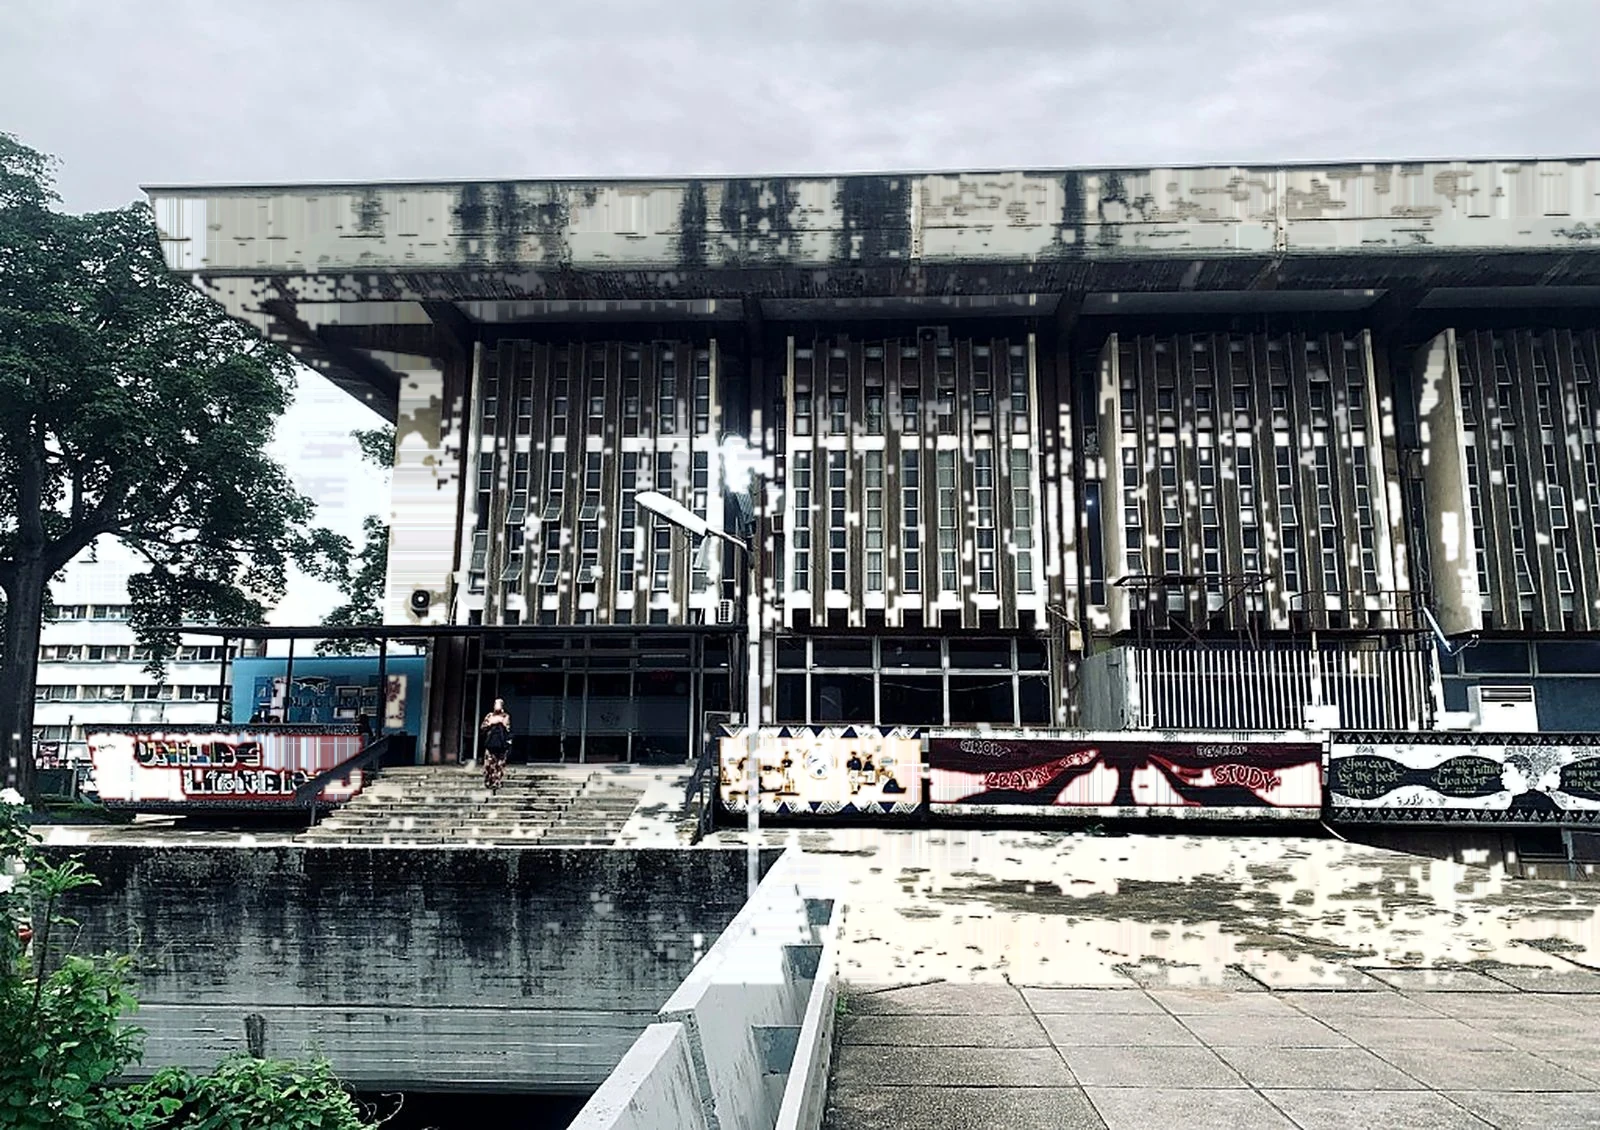
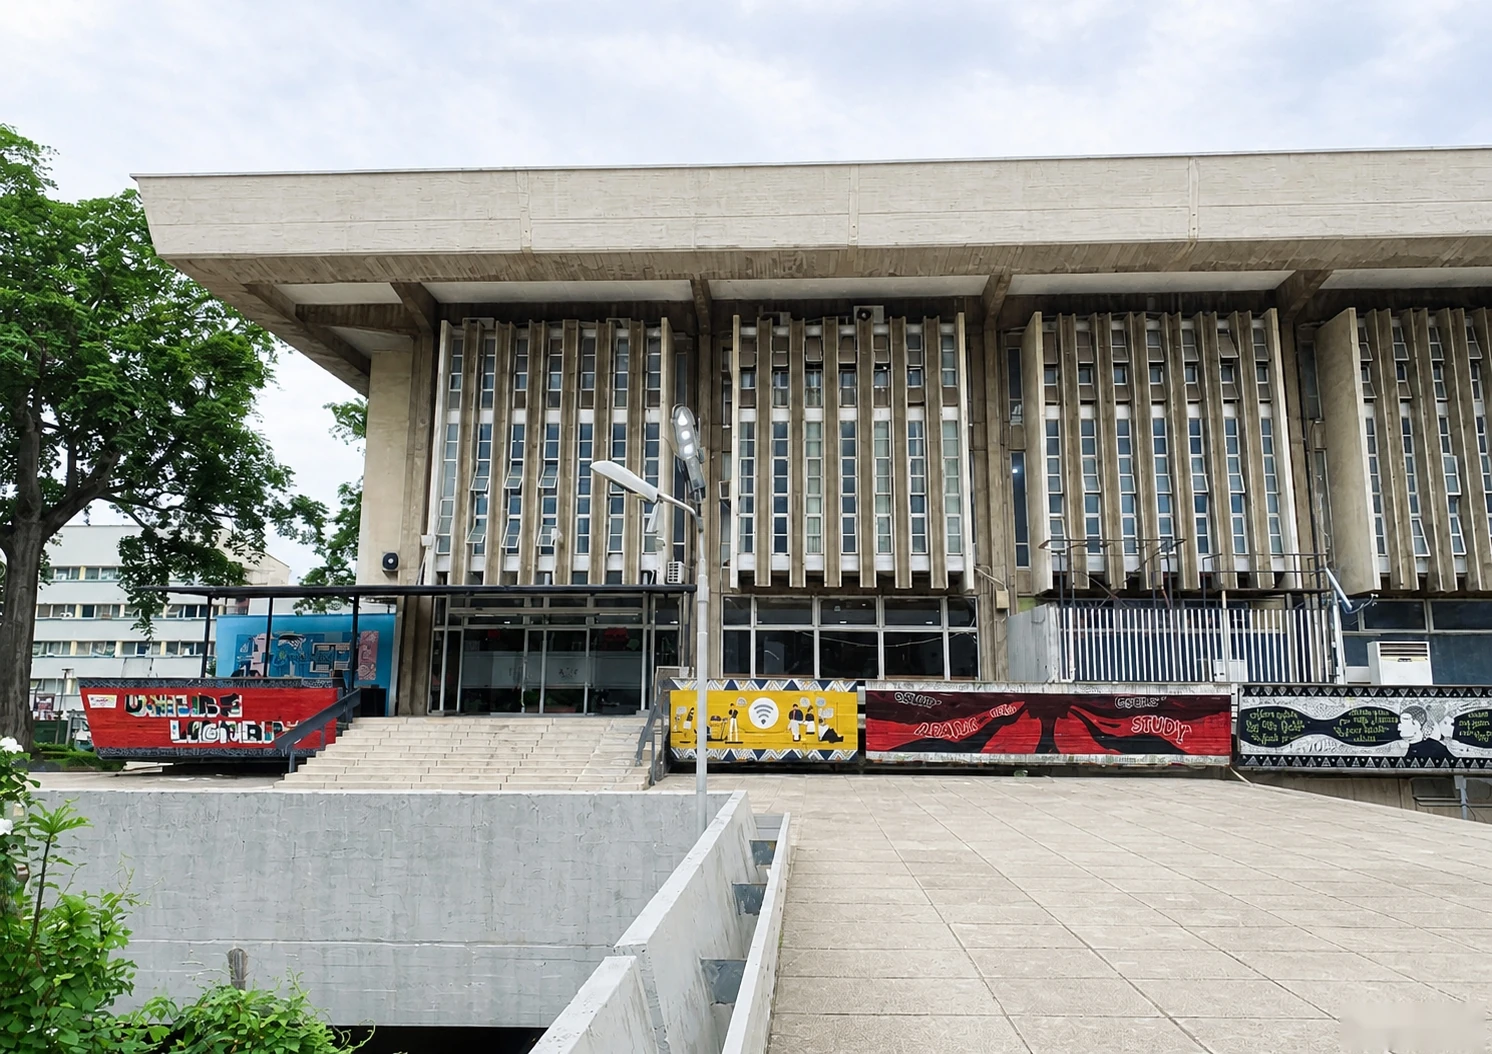
Replace library building and campus photos with clean images, remove Genspark watermarks, and deploy new CDN assets

diff --git a/index.html b/index.html
@@ -115,8 +115,8 @@
     <section class="hero--bg">
       <div class="hero-bg" aria-hidden="true">
         <picture>
-          <source srcset="https://iili.io/npBxdcN.webp" type="image/webp">
-          <img src="assets/library_facade_enhanced.jpg?v=20261111_clean"
+          <source srcset="https://iili.io/o9LWL6F.webp" type="image/webp">
+          <img src="assets/library_facade_enhanced.jpg?v=20261114_cleanpics"
             alt="University of Lagos Main Library Building">
         </picture>
       </div>
@@ -365,7 +365,7 @@
             <div class="arch">
               <picture>
                 <source srcset="https://iili.io/nPRQeA7.webp" type="image/webp">
-                <img src="assets/learning_commons_workstations.jpg?v=20261111_clean"
+                <img src="assets/learning_commons_workstations.jpg?v=20261114_cleanpics"
                   alt="Students conducting research at the UNILAG Library Learning Commons workstations"
                   style="object-position:center 30%">
               </picture>
@@ -382,7 +382,7 @@
             <div class="arch">
               <picture>
                 <source srcset="https://iili.io/nPRZAb9.webp" type="image/webp">
-                <img src="assets/makerspace_arena.jpg?v=20261111_clean"
+                <img src="assets/makerspace_arena.jpg?v=20261114_cleanpics"
                   alt="UNILAG Library Makerspace circular collaboration arena and ideation lounge">
               </picture>
             </div>
@@ -397,7 +397,7 @@
             <div class="arch">
               <picture>
                 <source srcset="https://iili.io/nPRQbVa.webp" type="image/webp">
-                <img src="assets/learning_commons_desk.jpg?v=20261111_clean"
+                <img src="assets/learning_commons_desk.jpg?v=20261114_cleanpics"
                   alt="UNILAG Library Learning Commons Information Desk and motivational wall murals">
               </picture>
             </div>
@@ -412,7 +412,7 @@
             <div class="arch">
               <picture>
                 <source srcset="https://iili.io/nPRtd1j.webp" type="image/webp">
-                <img src="assets/makerspace_wall.jpg?v=20261111_clean"
+                <img src="assets/makerspace_wall.jpg?v=20261114_cleanpics"
                   alt="UNILAG Library Makerspace Make Ideas Happen wall and interactive digital screen">
               </picture>
             </div>
@@ -737,7 +737,10 @@
         <div class="split split--rev">
           <div class="split-media" data-reveal>
             <div class="arch">
-              <img src="assets/campus-1.jpg" alt="University of Lagos campus grounds">
+              <picture>
+                <source srcset="https://iili.io/o9LXcwQ.webp" type="image/webp">
+                <img src="assets/campus-1.jpg?v=20261114_cleanpics" alt="University of Lagos campus grounds">
+              </picture>
               <span class="tick tl"></span><span class="tick tr"></span><span class="tick bl"></span><span
                 class="tick br"></span>
             </div>

diff --git a/libraries.html b/libraries.html
@@ -131,8 +131,8 @@
           <div data-reveal>
             <div class="arch" style="aspect-ratio:4/5">
               <picture>
-                <source srcset="https://iili.io/npBxvlp.webp" type="image/webp">
-                <img src="assets/main_library_frontal.jpg?v=20261111_clean"
+                <source srcset="https://iili.io/o9LXJnI.webp" type="image/webp">
+                <img src="assets/main_library_frontal.jpg?v=20261114_cleanpics"
                   alt="University of Lagos Main Library building and entrance plaza, Akoka" loading="lazy"
                   style="object-position:center 30%">
               </picture>
@@ -211,7 +211,7 @@
             <div class="arch arch--flat">
               <picture>
                 <source srcset="https://iili.io/nPRs3Ne.webp" type="image/webp">
-                <img src="assets/reading_booth_study.jpg?v=20261111_clean"
+                <img src="assets/reading_booth_study.jpg?v=20261114_cleanpics"
                   alt="Readers actively studying inside the individual pod seats at UNILAG Main Library"
                   style="object-position:center 25%">
               </picture>
@@ -275,7 +275,7 @@
             <div class="arch" style="aspect-ratio:16/11">
               <picture>
                 <source srcset="https://iili.io/nPRQbVa.webp" type="image/webp">
-                <img src="assets/learning_commons_desk.jpg?v=20261111_clean"
+                <img src="assets/learning_commons_desk.jpg?v=20261114_cleanpics"
                   alt="UNILAG Library Learning Commons Information Desk and motivational feature wall">
               </picture>
             </div>
@@ -302,7 +302,7 @@
             <div class="arch" style="aspect-ratio:16/11">
               <picture>
                 <source srcset="https://iili.io/nPRtd1j.webp" type="image/webp">
-                <img src="assets/makerspace_wall.jpg?v=20261111_clean"
+                <img src="assets/makerspace_wall.jpg?v=20261114_cleanpics"
                   alt="UNILAG Library Makerspace Make Ideas Happen wall and interactive digital screen">
               </picture>
             </div>

diff --git a/about.html b/about.html
@@ -156,8 +156,8 @@
           <div data-reveal>
             <div class="arch">
               <picture>
-                <source srcset="https://iili.io/npBzuqv.webp" type="image/webp">
-                <img src="assets/main_library_entrance.jpg?v=20261111_clean" alt="University of Lagos Main Library entrance, Akoka">
+                <source srcset="https://iili.io/o9LXCu4.webp" type="image/webp">
+                <img src="assets/main_library_entrance.jpg?v=20261114_cleanpics" alt="University of Lagos Main Library entrance, Akoka">
               </picture>
               <span class="tick tl"></span><span class="tick tr"></span><span class="tick bl"></span><span
                 class="tick br"></span>
@@ -233,8 +233,8 @@
           <a href="departments.html" class="arch-card" data-reveal>
             <div class="arch" style="aspect-ratio:16/10">
               <picture>
-                <source srcset="https://iili.io/npBzkhu.webp" type="image/webp">
-                <img src="assets/building-1.jpg?v=20261111_clean" alt="Library building exterior and plaza">
+                <source srcset="https://iili.io/o9LXznS.webp" type="image/webp">
+                <img src="assets/building-1.jpg?v=20261114_cleanpics" alt="Library building exterior and plaza">
               </picture>
             </div>
             <div class="ac-body">
@@ -248,7 +248,7 @@
             <div class="arch" style="aspect-ratio:16/10">
               <picture>
                 <source srcset="https://iili.io/nPRQbVa.webp" type="image/webp">
-                <img src="assets/learning_commons_desk.jpg?v=20261111_clean" alt="UNILAG Library Learning Commons Information Desk and motivational wall murals">
+                <img src="assets/learning_commons_desk.jpg?v=20261114_cleanpics" alt="UNILAG Library Learning Commons Information Desk and motivational wall murals">
               </picture>
             </div>
             <div class="ac-body">

diff --git a/admin/index.html b/admin/index.html
@@ -728,7 +728,7 @@
             <button type="button" class="btn-sm" style="background:#fff;border:1px solid #ddd;font-size:0.7rem;padding:2px 8px" onclick="setQuickMedia('https://iili.io/nQKlFu2.webp', 'Library Multimedia Studio, 3rd Floor')">Multimedia Studio</button>
             <button type="button" class="btn-sm" style="background:#fff;border:1px solid #ddd;font-size:0.7rem;padding:2px 8px" onclick="setQuickMedia('https://iili.io/nPR09pS.webp', 'Makerspace Innovation Arena, Main Library')">Makerspace</button>
             <button type="button" class="btn-sm" style="background:#fff;border:1px solid #ddd;font-size:0.7rem;padding:2px 8px" onclick="setQuickMedia('https://iili.io/nLA98hP.webp', 'Vice-Chancellor Prof. Folasade Ogunsola in Pod Seats')">VC in Pod Seats</button>
-            <button type="button" class="btn-sm" style="background:#fff;border:1px solid #ddd;font-size:0.7rem;padding:2px 8px" onclick="setQuickMedia('https://iili.io/npBxdcN.webp', 'University of Lagos Main Library Building')">Main Library Facade</button>
+            <button type="button" class="btn-sm" style="background:#fff;border:1px solid #ddd;font-size:0.7rem;padding:2px 8px" onclick="setQuickMedia('https://iili.io/o9LWL6F.webp', 'University of Lagos Main Library Building')">Main Library Facade</button>
           </div>
         </div>
 

diff --git a/departments.html b/departments.html
@@ -214,7 +214,10 @@
     <div class="split">
       <div data-reveal>
         <div class="arch">
-          <img src="assets/campus-1.jpg" alt="University of Lagos campus">
+          <picture>
+            <source srcset="https://iili.io/o9LXcwQ.webp" type="image/webp">
+            <img src="assets/campus-1.jpg?v=20261114_cleanpics" alt="University of Lagos campus">
+          </picture>
           <span class="tick tl"></span><span class="tick tr"></span><span class="tick bl"></span><span class="tick br"></span>
         </div>
       </div>

diff --git a/archives.html b/archives.html
@@ -94,7 +94,7 @@
 </div>
 
 <main>
-<section class="phero phero--img" style="background:url('https://iili.io/npBzkhu.webp') center/cover">
+<section class="phero phero--img" style="background:url('https://iili.io/o9LXznS.webp') center/cover">
   <div class="wrap">
     <div class="crumbs mono" style="color:rgba(246,242,233,.65)"><a href="about.html">About</a><i style="background:rgba(246,242,233,.5)"></i><span>Archives</span></div>
     <h1 class="display">The <em class="ital">Archives</em>.</h1>
